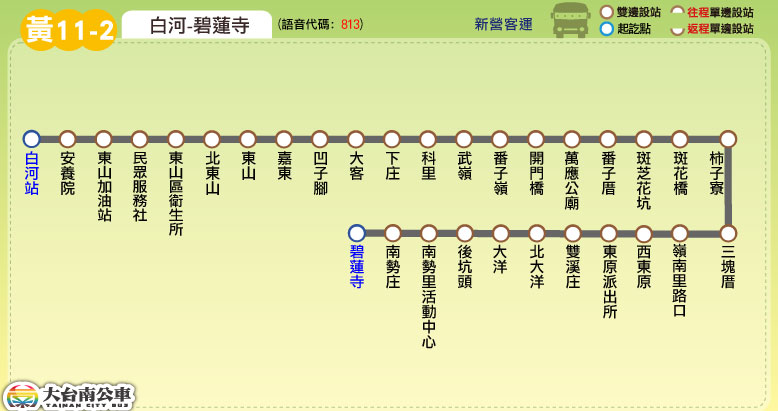
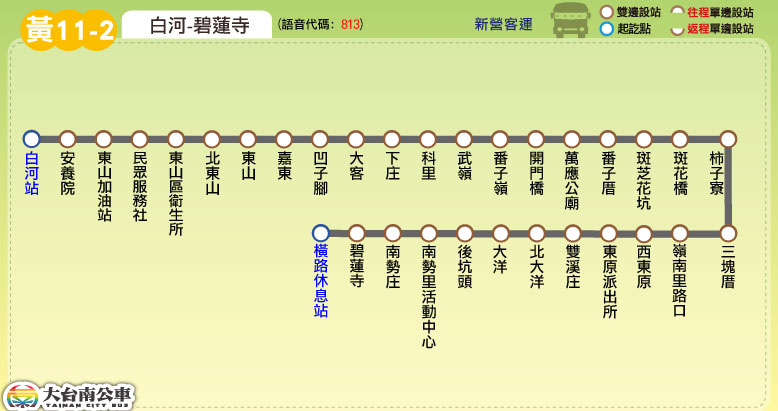
更新路線圖：黃11-2(延駛「橫路休息站」)

Changed region(s): [[0.401, 0.5255, 0.4936, 0.7883], [0.6478, 0.5547, 0.6787, 0.5839], [0.5553, 0.5547, 0.5861, 0.5839]]

diff --git a/route/fare_and_time/yellow_11_2.js b/route/fare_and_time/yellow_11_2.js
@@ -1,4 +1,4 @@
-yellow_11_2_interval_name = ["白河","東山","大客","武嶺","番子嶺","斑芝<br />花坑","西東原","北大洋","南勢庄",'<span style="font-weight:normal">碧</span>蓮寺'];
+yellow_11_2_interval_name = ["白河","東山","大客","武嶺","番子嶺","斑芝<br />花坑","西東原","北大洋","南勢庄",'<span style="font-weight:normal">碧</span>蓮寺',"橫路<br />休息站"];
 yellow_11_2_interval_stop = [
 ["白河站","安養院"], // 白河
 ["東山加油站","民眾服務社","東山區衛生所","北東山","東山","嘉東"], // 東山
@@ -9,7 +9,8 @@ yellow_11_2_interval_stop = [
 ["三塊厝","嶺南里路口","西東原","東原派出所","雙溪庄"], // 西東原
 ["北大洋","大洋","後坑頭","南勢里活動中心"], // 北大洋
 ["南勢庄"], // 南勢庄
-["碧蓮寺"] // 碧蓮寺
+["碧蓮寺"], // 碧蓮寺
+["橫路休息站"] // 橫路休息站
 ];
 yellow_11_2_fare = [
 [26],
@@ -21,10 +22,19 @@ yellow_11_2_fare = [
 [43,32,26,26,26,26,26],
 [51,40,34,30,27,26,26,26],
 [61,50,43,39,37,27,26,26,26],
-[67,56,50,46,43,34,26,26,26,26]
+[67,56,50,46,43,34,26,26,26,26],
+[74,63,56,53,50,40,31,26,26,26,26]
 ];
-yellow_11_2_main_stop_name = ["白河站","東山","西東原","南勢里<br />活動中心",'<span style="font-family:新細明體;">碧蓮寺</span>'];
-yellow_11_2_main_stop_time_consume = [0, 5, 20, 26, 32];
-yellow_11_2_important_stop = [0, 1, 4]; // 白河站河, 東山, 碧蓮寺
+yellow_11_2_main_stop_name = ["白河站","東山","西東原","南勢里<br />活動中心",'<span style="font-family:新細明體;">碧蓮寺</span>',"橫路<br />休息站"];
+yellow_11_2_main_stop_time_consume = [0, 5, 19, 25, 31, 35];
+yellow_11_2_important_stop = [0, 1, 5]; // 白河站河, 東山, 橫路休息站
+var Baihe = 0; // 白河站
+var Dongshan = 1; // 東山
+var West_Dongyuan = 2; // 西東原
+var Nanshih_Village = 3; // 南勢里活動中心
+var Bilian_Temple = 4; // 碧蓮寺
 yellow_11_2_time_go = [["06:20"],["09:00"],["14:40"],["16:45"]];
-yellow_11_2_time_return = [["07:00"],["09:40"],["15:20"],["17:25"]];
+yellow_11_2_time_return = [["07:00",[[Bilian_Temple,-1,Nanshih_Village,-1,Dongshan,1,Baihe,1]]],
+["09:40",[[Bilian_Temple,-1,Nanshih_Village,-1,Dongshan,1,Baihe,1]]],
+["15:20",[[Bilian_Temple,-1,Nanshih_Village,-1,Dongshan,1,Baihe,1]]],
+["17:25",[[Bilian_Temple,-1,Nanshih_Village,-1,Dongshan,1,Baihe,1]]]];

diff --git a/yellow/yellow_11-2.html b/yellow/yellow_11-2.html
@@ -20,7 +20,7 @@
 	block_route_map(null);
 	block_route_info(route_interval,'新營客運','','里程計費','http://www.2384.com.tw/ebus/jsp/ajaxBus.jsp?pathId=1813&locale=zh_TW');
 	block_fare(0, null);
-	block_time_schedule('白河','<span style="font-weight:normal;">碧</span>蓮寺','');
+	block_time_schedule('白河','橫路休息站','');
 	block_transfer(transfer_baihe);
 	block_copyright();
 </script>
